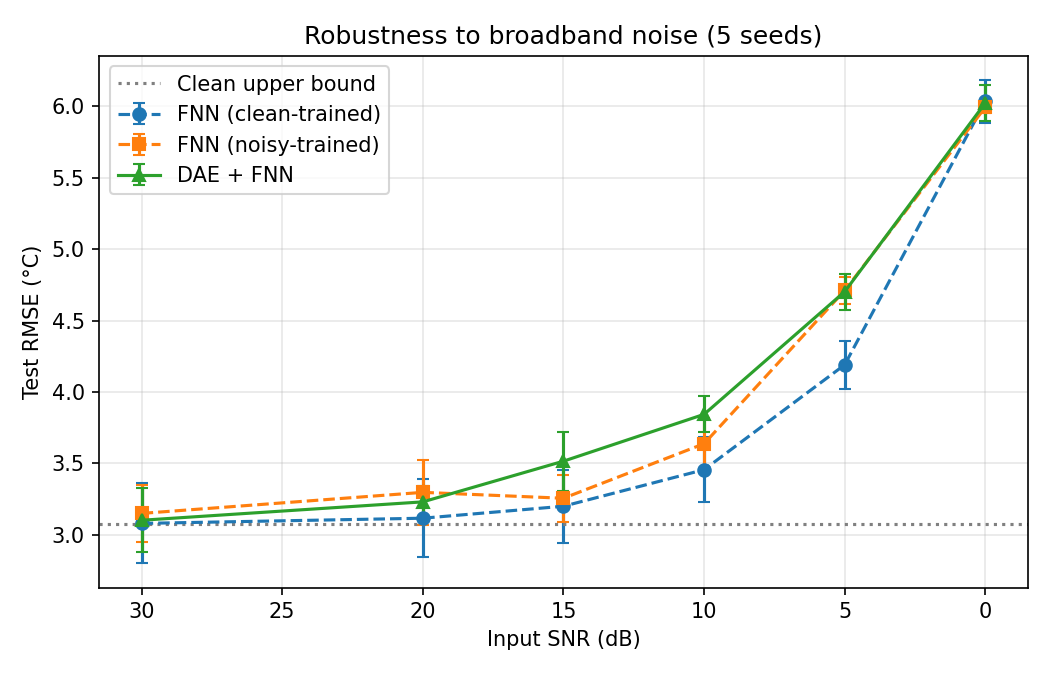
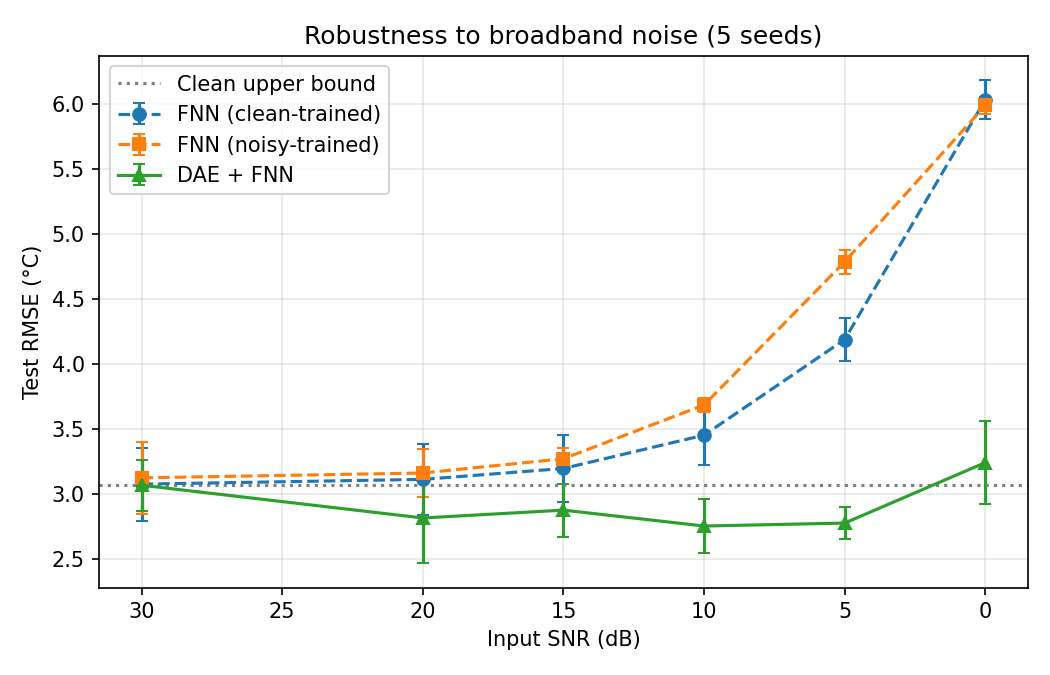
14dB output

diff --git a/main.py b/main.py
@@ -15,6 +15,20 @@ matplotlib.use("Agg")
 import matplotlib.pyplot as plt
 
 SEED = 42
+
+WIN = 15          # temporal window (odd). Larger = more noise averaging, more signal blur
+CAUSAL = False    # True = use only past samples (needed for real-time deployment)
+
+def make_windows(X, win=WIN, causal=CAUSAL):
+    """(n, F) -> (n, win*F). Each row = the window of samples around/ending at that row."""
+    left, right = (win - 1, 0) if causal else (win // 2, win // 2)
+    Xp = np.pad(X, ((left, right), (0, 0)), mode='edge')
+    idx = np.arange(len(X))[:, None] + np.arange(win)[None, :]
+    return Xp[idx].reshape(len(X), -1)
+
+BOTTLENECK = 8    # was 3
+PCA_K = 3   
+
 np.random.seed(SEED)
 torch.manual_seed(SEED)
 
@@ -98,26 +112,19 @@ print("Step 3: Initializing Deep Denoising Autoencoder...")
 BOTTLENECK = 3   # PCA shows ~3 components carry the signal in these channels
 
 class DAE(nn.Module):
-    def __init__(self, input_dim=INPUT_DIM, bottleneck=BOTTLENECK):
+    def __init__(self, input_dim=INPUT_DIM * WIN, out_dim=INPUT_DIM, bottleneck=BOTTLENECK):
         super(DAE, self).__init__()
-        # Hourglass architecture: the bottleneck cannot memorise i.i.d. noise
         self.encoder = nn.Sequential(
-            nn.Linear(input_dim, 16),
-            nn.BatchNorm1d(16),
-            nn.ReLU(),
-            nn.Linear(16, bottleneck)   # linear bottleneck (no ReLU) keeps full signal range
+            nn.Linear(input_dim, 128), nn.ReLU(),
+            nn.Linear(128, bottleneck)
         )
         self.decoder = nn.Sequential(
-            nn.Linear(bottleneck, 16),
-            nn.BatchNorm1d(16),
-            nn.ReLU(),
-            nn.Linear(16, input_dim)
+            nn.Linear(bottleneck, 128), nn.ReLU(),
+            nn.Linear(128, out_dim)
         )
 
     def forward(self, x):
-        encoded = self.encoder(x)
-        decoded = self.decoder(encoded)
-        return decoded
+        return self.decoder(self.encoder(x))
 
 # ==========================================
 # STEP 4: FEED-FORWARD NEURAL NETWORK (FNN)
@@ -146,33 +153,35 @@ FNN_EPOCHS = 50
 PATIENCE = 15   # early stopping on validation loss
 
 def train_dae(snr_db, epochs=DAE_EPOCHS, verbose=True):
-    """Phase 1: noisy -> clean reconstruction. Noise is re-sampled every batch
-    so the DAE sees new corruption each epoch and cannot memorise it."""
     model = DAE()
     criterion = nn.MSELoss()
-    optimizer = optim.Adam(model.parameters(), lr=0.002)
-    loader = DataLoader(TensorDataset(torch.FloatTensor(X_train_clean)),
-                        batch_size=64, shuffle=True)
-    sig_pow = torch.FloatTensor(np.mean(X_train_clean ** 2, axis=0))
-    noise_std = torch.sqrt(sig_pow / (10 ** (snr_db / 10)))
-    Xv_noisy = torch.FloatTensor(make_noisy_splits(snr_db)[1])
+    optimizer = optim.Adam(model.parameters(), lr=0.001)
+    rng = np.random.default_rng(SEED)
+
+    sig_pow = np.mean(X_train_clean ** 2, axis=0)
+    noise_std = np.sqrt(sig_pow / (10 ** (snr_db / 10)))
+    Xc = torch.FloatTensor(X_train_clean)
     Xv_clean = torch.FloatTensor(X_val_clean)
 
     best_val, best_state, wait = float('inf'), None, 0
     for epoch in range(epochs):
         model.train()
+        noisy = X_train_clean + rng.normal(size=X_train_clean.shape) * noise_std
+        loader = DataLoader(TensorDataset(torch.FloatTensor(make_windows(noisy)), Xc),
+                            batch_size=64, shuffle=True)
         total = 0
-        for (batch_clean_x,) in loader:
-            batch_noisy_x = batch_clean_x + torch.randn_like(batch_clean_x) * noise_std
+        for bx, by in loader:
             optimizer.zero_grad()
-            loss = criterion(model(batch_noisy_x), batch_clean_x)  # map noisy -> clean
+            loss = criterion(model(bx), by)   # noisy window -> clean centre sample
             loss.backward()
             optimizer.step()
             total += loss.item()
 
         model.eval()
         with torch.no_grad():
-            val_loss = criterion(model(Xv_noisy), Xv_clean).item()
+            Xv_noisy = X_val_clean + rng.normal(size=X_val_clean.shape) * noise_std
+            val_loss = criterion(model(torch.FloatTensor(make_windows(Xv_noisy))), Xv_clean).item()
+
         if val_loss < best_val:
             best_val, best_state, wait = val_loss, copy.deepcopy(model.state_dict()), 0
         else:
@@ -185,12 +194,12 @@ def train_dae(snr_db, epochs=DAE_EPOCHS, verbose=True):
             break
 
     model.load_state_dict(best_state)
-    model.eval()   # frozen static filter from here on
+    model.eval()
     return model
 
 def denoise(dae, X):
     with torch.no_grad():
-        return dae(torch.FloatTensor(X)).numpy()
+        return dae(torch.FloatTensor(make_windows(X))).numpy()
 
 def train_fnn(X_tr, y_tr, X_va, y_va, epochs=FNN_EPOCHS, verbose=True):
     """Phase 2: features -> steady-state temperatures (normalised space)."""
@@ -288,6 +297,11 @@ def calculate_snr(clean_signal, corrupted_signal):
         return float('inf')
     return 10 * np.log10(signal_power / noise_power)
 
+# --- diagnostic: best SNR a plain moving average could reach (no noise involved) ---
+from scipy.ndimage import uniform_filter1d     # (or move this import to the top)
+sm = uniform_filter1d(X_test_clean, size=WIN, axis=0, mode='nearest')
+print(f"Smoothing floor @ WIN={WIN}: {calculate_snr(X_test_clean, sm):.2f} dB")
+
 input_snr = calculate_snr(X_test_clean, X_test_noisy)
 output_snr = calculate_snr(X_test_clean, cleaned_test)
 
@@ -297,9 +311,8 @@ print(f"Output Signal-to-Noise Ratio:   {output_snr:.2f} dB")
 print(f"Net SNR Improvement:            {output_snr - input_snr:.2f} dB")
 
 # Linear reference: PCA with the same number of components as the DAE bottleneck
-pca = PCA(n_components=BOTTLENECK).fit(X_train_clean)
-pca_snr = calculate_snr(X_test_clean, pca.inverse_transform(pca.transform(X_test_noisy)))
-print(f"PCA (k={BOTTLENECK}) reference output SNR: {pca_snr:.2f} dB  (linear denoising ceiling)")
+pca = PCA(n_components=PCA_K).fit(X_train_clean)
+print(f"PCA (k={PCA_K}) reference output SNR: ...")
 
 # ==========================================
 # STEP 7: BASELINE COMPARISON (OBJECTIVES 1 & 4)
